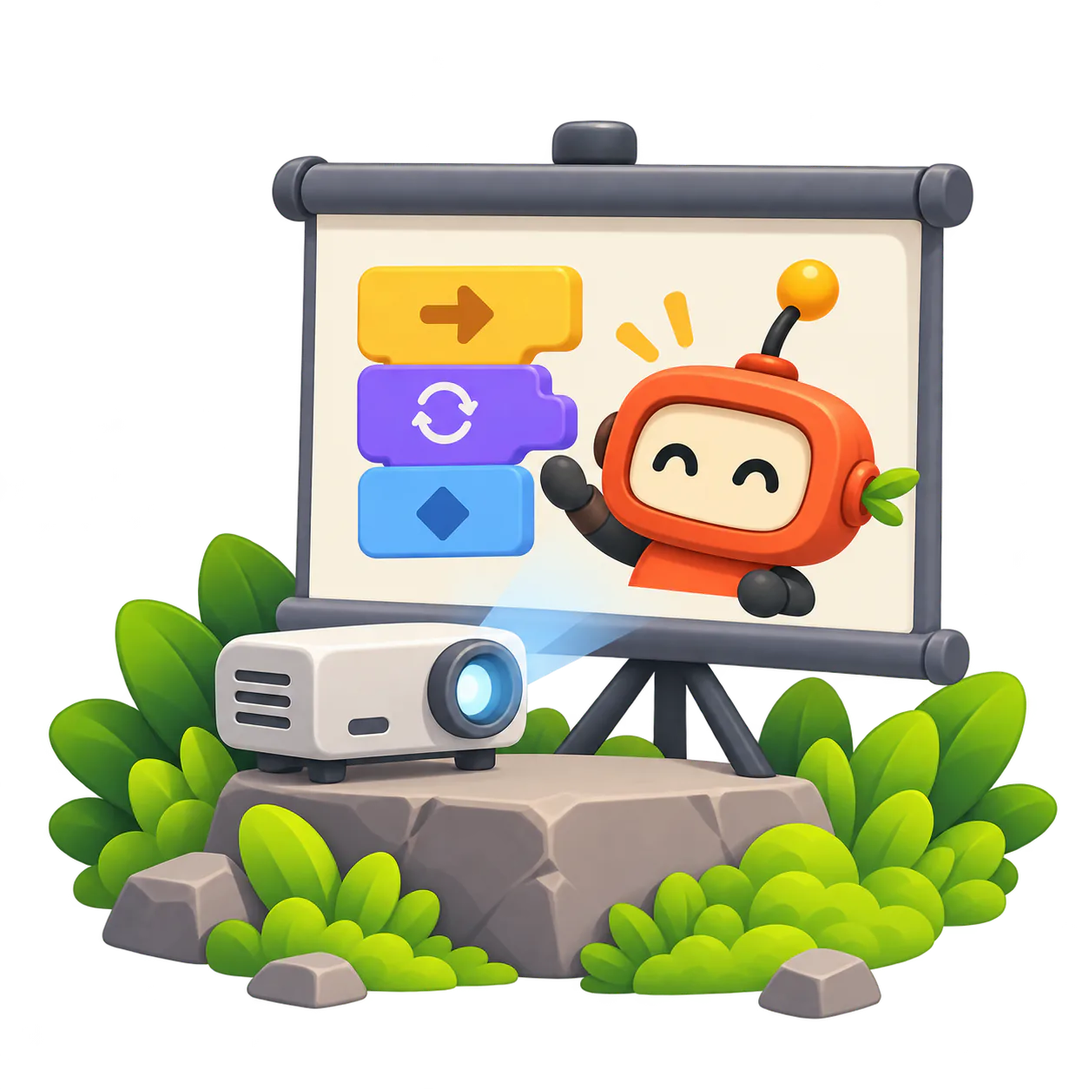
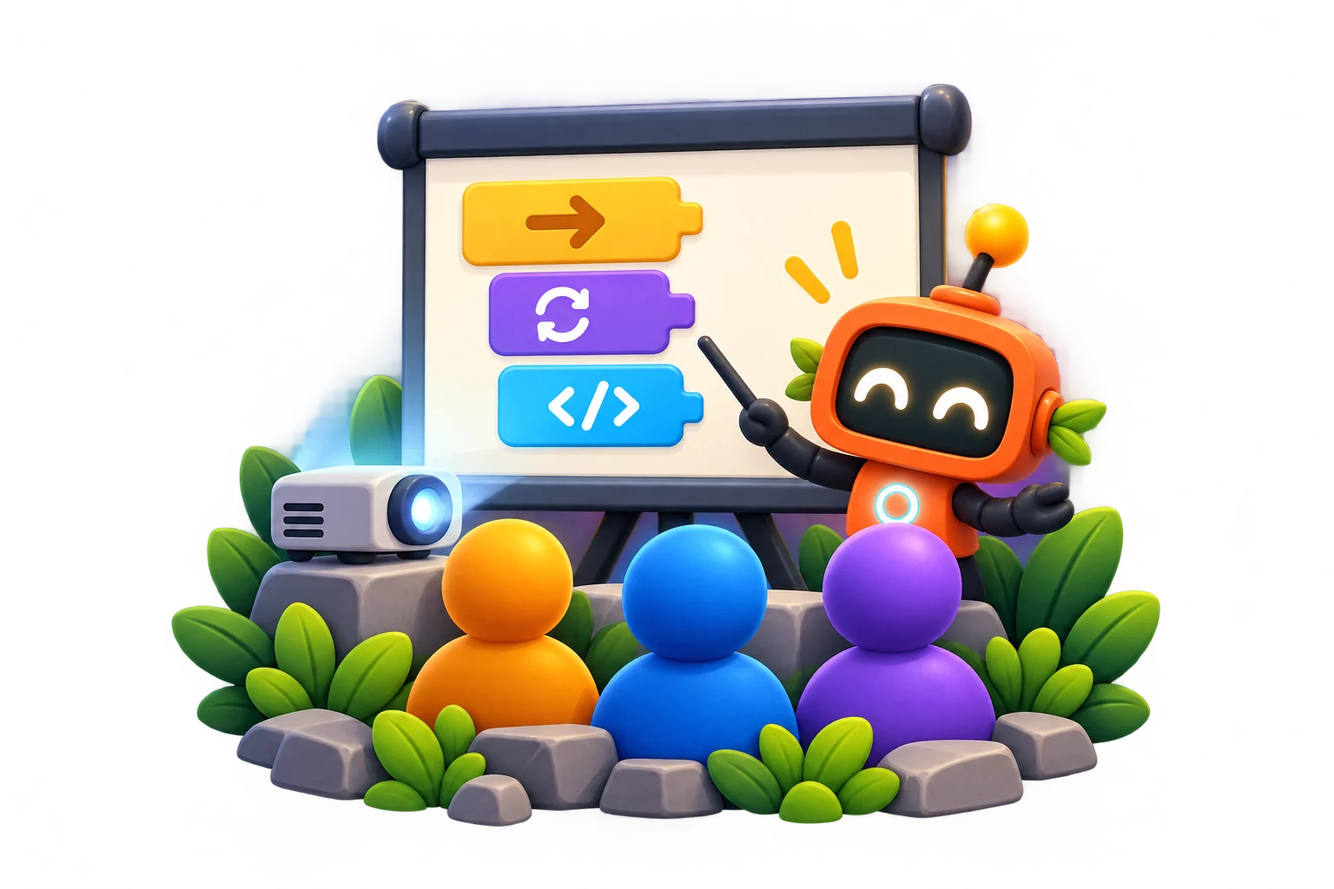
Refine Tech Garden home screen

diff --git a/apps/web/src/styles.css b/apps/web/src/styles.css
@@ -318,8 +318,10 @@ h1 { margin: 8px 0 7px; color: #18372f; font-size: clamp(34px, 4vw, 52px); line-
   min-height: 100svh;
   overflow: hidden;
   padding: 0 clamp(20px, 4vw, 72px) clamp(36px, 5vh, 72px);
-  background-image: linear-gradient(90deg, rgba(223,248,250,.28) 0%, transparent 38%), linear-gradient(180deg, rgba(222, 249, 255, .08), rgba(255, 247, 211, .22)), var(--adventure-background);
-  background-position: center 46%;
+  background-color: #e7f1df;
+  background-image: linear-gradient(90deg, rgba(235,252,247,.16) 0%, transparent 42%), var(--adventure-background);
+  background-position: center top;
+  background-repeat: no-repeat;
   background-size: cover;
   isolation: isolate;
 }
@@ -348,141 +350,104 @@ h1 { margin: 8px 0 7px; color: #18372f; font-size: clamp(34px, 4vw, 52px); line-
   position: relative;
   z-index: 2;
   width: min(100%, 1210px);
-  height: clamp(238px, 30dvh, 330px);
+  height: clamp(280px, 34dvh, 350px);
   margin: 0 auto;
 }
-.adventure-hero__copy { position: absolute; z-index: 3; left: 4%; top: 31%; max-width: 470px; padding: 18px 28px 22px 0; background: radial-gradient(ellipse at 35% 50%, rgba(239,254,247,.68), transparent 68%); }
-.adventure-hero__copy h1 { margin: 0; color: #062b23; font-size: clamp(58px, 5.5vw, 86px); line-height: .88; letter-spacing: -5px; text-shadow: 0 3px rgba(255,255,255,.3); }
-.adventure-hero__copy p { margin: 16px 0 0; color: #315850; font-size: clamp(24px, 2.15vw, 34px); font-weight: 800; letter-spacing: -1.5px; line-height: 1.1; text-shadow: 0 2px rgba(255,255,255,.55); }
-.adventure-hero__scene { position: absolute; inset: 0 0 0 43%; }
-.pip-group { position: absolute; z-index: 3; left: 14%; bottom: 0; width: min(50%, 440px); height: 100%; }
-.pip-hero { position: absolute; z-index: 2; right: 0; bottom: -16px; width: min(88%, 390px); height: auto; filter: drop-shadow(0 14px 13px rgba(44,65,47,.18)); animation: pip-arrive .75s cubic-bezier(.2,.85,.3,1.12) both, pip-float 4.5s 1s ease-in-out infinite; }
-.pip-speech { position: absolute; z-index: 4; left: calc(-45% - 14px); top: -1%; width: 225px; padding: 14px 18px 15px; color: #153b36; background: rgba(255,255,255,.94); border: 1px solid rgba(255,255,255,.98); border-radius: 21px; box-shadow: 0 10px 28px rgba(40,76,70,.12); font-size: 15px; line-height: 1.32; }
-.pip-speech strong,.pip-speech span { display: block; }
-.pip-speech strong { font-weight: 800; }
-.pip-speech span { margin-top: 2px; font-weight: 600; }
-.pip-speech::after { content: ""; position: absolute; right: 24px; bottom: -14px; width: 25px; height: 25px; background: inherit; clip-path: polygon(0 0,100% 0,100% 100%); transform: skewX(10deg); filter: drop-shadow(3px 4px 2px rgba(40,76,70,.04)); }
-.code-stack { position: absolute; z-index: 5; right: -1%; top: 9%; width: 222px; transform: perspective(600px) rotateY(-7deg) rotateZ(-6deg); transform-origin: center; }
-.code-block { position: relative; min-height: 50px; padding: 0 18px 5px 22px; display: flex; align-items: center; gap: 11px; border: 2px solid rgba(72,62,82,.15); border-radius: 12px; box-shadow: inset 0 -7px rgba(75,45,35,.1), inset 0 2px rgba(255,255,255,.25), 0 7px 0 rgba(62,51,45,.12), 0 12px 16px rgba(41,59,46,.13); font-size: 20px; opacity: 0; animation: block-arrive .48s cubic-bezier(.2,.9,.2,1.2) forwards; }
-.code-block::before { content: ""; position: absolute; left: 28px; top: -7px; width: 35px; height: 8px; background: inherit; border-radius: 8px 8px 0 0; }
-.code-block + .code-block { margin-top: 7px; }
-.code-block b { white-space: nowrap; }
-.code-block--move { z-index: 4; margin-left: 4px; color: #85520f; background: #ffc64c; animation-delay: .25s; }
-.code-block--repeat { z-index: 3; margin-left: 40px; color: #5c2b9a; background: #ae6bec; animation-delay: .36s; }
-.code-block--condition { z-index: 2; margin-left: 22px; color: #1b5ca1; background: #65b7f4; animation-delay: .47s; }
-.code-block--run { z-index: 1; margin-left: 46px; color: #176138; background: #78ce84; animation-delay: .58s; }
-.adventure-grid { position: relative; z-index: 4; width: min(100%, 1450px); margin: clamp(8px, 1.4dvh, 15px) auto 0; display: grid; grid-template-columns: repeat(4, minmax(0, 1fr)); align-items: stretch; gap: clamp(14px, 1.3vw, 22px); }
+.adventure-hero__copy { position: absolute; z-index: 3; left: 4%; top: 10%; width: min(590px, 50%); padding: 22px 70px 22px 0; background: radial-gradient(ellipse at 28% 50%, rgba(249,248,224,.72) 0%, rgba(244,249,226,.48) 48%, rgba(239,249,229,0) 76%); }
+.adventure-hero__copy h1 { margin: 0; color: #062b23; font-size: clamp(46px, 3.5vw, 62px); line-height: .98; letter-spacing: -3px; text-wrap: balance; text-shadow: 0 1px rgba(255,255,255,.65); }
+.adventure-hero__copy p { max-width: 520px; margin: 16px 0 0; color: #234a40; font-size: clamp(18px, 1.45vw, 24px); font-weight: 700; letter-spacing: -.7px; line-height: 1.25; text-shadow: 0 1px rgba(255,255,255,.75); }
+.tech-garden-pip { position: absolute; z-index: 2; right: 19%; bottom: clamp(-72px, -6dvh, -50px); width: clamp(255px, 20vw, 330px); aspect-ratio: 1.5; pointer-events: none; }
+.tech-garden-pip img { display: block; width: 100%; height: auto; filter: drop-shadow(0 10px 10px rgba(18,39,29,.18)); }
+.adventure-grid { position: relative; z-index: 4; width: min(100%, 1240px); max-width: 100%; margin: clamp(8px, 1.4dvh, 15px) auto 0; display: grid; grid-template-columns: repeat(4, minmax(0, 1fr)); align-items: stretch; gap: clamp(12px, 1vw, 16px); }
 .adventure-card {
-  --card-border: rgba(255,255,255,.72);
+  --card-bg: #c8e3d3;
+  --card-border: #9bc7b0;
+  --card-accent: #267a59;
+  --card-text: #173c32;
   position: relative;
   min-width: 0;
-  min-height: clamp(330px, 39dvh, 390px);
-  padding: clamp(15px, 1.8dvh, 20px) 24px clamp(18px, 2dvh, 24px);
+  min-height: clamp(290px, 34dvh, 340px);
+  padding: clamp(14px, 1.5dvh, 17px) 20px clamp(16px, 1.7dvh, 20px);
   overflow: hidden;
   display: grid;
-  grid-template-rows: auto minmax(132px, 1fr) auto auto;
+  grid-template-rows: auto minmax(112px, 1fr) auto auto;
   align-items: start;
   row-gap: 7px;
   text-align: left;
-  color: #092d27;
-  border: 5px solid var(--card-border);
-  border-radius: 31px;
-  box-shadow: 0 16px 28px rgba(75,83,45,.16), inset 0 0 32px rgba(255,255,255,.2);
+  color: var(--card-text);
+  background: var(--card-bg);
+  border: 2px solid var(--card-border);
+  border-radius: 27px;
+  box-shadow: 0 12px 26px rgba(30,51,40,.16), inset 0 1px rgba(255,255,255,.24);
   transition: transform .2s ease, box-shadow .2s ease;
 }
-.adventure-card--practice { background: linear-gradient(145deg, #c6f7d5 0%, #9deab5 100%); }
-.adventure-card--challenges { background: linear-gradient(145deg, #ffeaa1 0%, #ffd267 100%); }
-.adventure-card--teacher { background: linear-gradient(145deg, #d9bdff 0%, #bd8ff3 100%); }
-.adventure-card--student { background: linear-gradient(145deg, #c5edff 0%, #83d0f3 100%); }
-.adventure-card:hover { transform: translateY(-5px); border-color: rgba(255,255,255,.95); box-shadow: 0 22px 36px rgba(64,78,45,.22), inset 0 0 32px rgba(255,255,255,.28); }
+.adventure-card--practice { --card-bg: #c8e3d3; --card-border: #9bc7b0; --card-accent: #267a59; --card-text: #173c32; }
+.adventure-card--challenges { --card-bg: #f0ddae; --card-border: #ddbe76; --card-accent: #a66a17; --card-text: #493716; }
+.adventure-card--teacher { --card-bg: #ddd2e9; --card-border: #bda9d5; --card-accent: #7854a4; --card-text: #352744; }
+.adventure-card--student { --card-bg: #c9dfe9; --card-border: #9fc5d8; --card-accent: #276e99; --card-text: #173d53; }
+.adventure-card:hover { transform: translateY(-5px); border-color: var(--card-accent); box-shadow: 0 18px 32px rgba(30,51,40,.2), inset 0 1px rgba(255,255,255,.28); }
 .adventure-card:active { transform: translateY(2px) scale(.995); }
 .adventure-card:focus-visible { outline: 5px solid #173d70; outline-offset: 4px; }
-.adventure-card__category { width: max-content; max-width: 100%; min-height: 38px; padding: 0 17px; display: inline-flex; align-items: center; gap: 9px; color: #14603e; background: rgba(255,255,255,.58); border-radius: 999px; font-size: 12px; font-weight: 800; letter-spacing: .2px; }
-.adventure-card--challenges .adventure-card__category { color: #875000; }
-.adventure-card--teacher .adventure-card__category { color: #57269a; }
-.adventure-card--student .adventure-card__category { color: #0968a9; }
+.adventure-card__category { width: max-content; max-width: 100%; min-height: 34px; padding: 0 14px; display: inline-flex; align-items: center; gap: 8px; color: var(--card-accent); background: rgba(255,255,255,.46); border: 1px solid rgba(255,255,255,.34); border-radius: 999px; font-size: 11px; font-weight: 800; letter-spacing: .2px; }
 .adventure-card__category > span { letter-spacing: -4px; font-size: 10px; }
 .adventure-card__illustration { min-height: 0; display: grid; place-items: center; overflow: visible; }
-.adventure-card__illustration img { --art-scale: 1; width: min(80%, 245px); max-height: clamp(162px, 21dvh, 205px); object-fit: contain; transform: scale(var(--art-scale)); filter: drop-shadow(0 12px 9px rgba(41,69,42,.13)); transition: transform .22s ease; }
+.adventure-card__illustration img { --art-scale: 1; width: min(78%, 210px); max-height: clamp(138px, 17dvh, 172px); object-fit: contain; transform: scale(var(--art-scale)); filter: drop-shadow(0 10px 8px rgba(41,69,42,.13)); transition: transform .22s ease; }
 .adventure-card--practice .adventure-card__illustration img { --art-scale: 1.08; }
 .adventure-card--challenges .adventure-card__illustration img { --art-scale: 1.02; }
 .adventure-card--teacher .adventure-card__illustration img { --art-scale: 1.04; }
 .adventure-card--student .adventure-card__illustration img { --art-scale: 1.07; }
 .adventure-card:hover .adventure-card__illustration img { transform: scale(calc(var(--art-scale) * 1.04)); }
-.adventure-card__title { color: #071f1b; font-size: clamp(21px, 1.55vw, 27px); line-height: 1.1; letter-spacing: -1px; }
-.adventure-card__description { color: #365f57; font-size: clamp(14px, 1vw, 17px); line-height: 1.35; }
-.adventure-card--teacher .adventure-card__description { color: #544a78; }
-.adventure-card--student .adventure-card__description { color: #315b71; }
-@keyframes pip-arrive { from { opacity: 0; transform: translateY(30px) scale(.92); } to { opacity: 1; transform: translateY(0) scale(1); } }
-@keyframes pip-float { 0%, 100% { translate: 0 0; } 50% { translate: 0 -7px; } }
-@keyframes block-arrive { from { opacity: 0; transform: translate(20px,-8px) scale(.9); } to { opacity: 1; transform: none; } }
+.adventure-card__title { color: var(--card-text); font-size: clamp(20px, 1.4vw, 24px); line-height: 1.1; letter-spacing: -.8px; }
+.adventure-card__description { color: var(--card-text); font-size: clamp(13px, .92vw, 15px); line-height: 1.35; opacity: .84; }
 @media (max-width: 1100px) {
-  .adventure-home { padding-inline: 28px; background-position: 52% center; }
-  .adventure-hero { height: 300px; }
-  .adventure-hero__copy { left: 1%; }
-  .adventure-hero__scene { left: 40%; }
-  .pip-group { left: 8%; width: 57%; }
-  .pip-hero { right: 0; left: auto; width: 88%; }
-  .pip-speech { left: -24%; }
-  .code-stack { right: -1%; width: 190px; }
-  .code-block { min-height: 45px; padding-inline: 13px; font-size: 17px; }
+  .adventure-home { padding-inline: 28px; background-position: 54% top; background-size: auto max(100svh, 760px); }
+  .adventure-hero { height: 290px; }
+  .adventure-hero__copy { left: 1%; width: min(560px, 57%); }
+  .tech-garden-pip { right: 8%; bottom: -50px; width: clamp(235px, 29vw, 295px); }
   .adventure-grid { grid-template-columns: repeat(2, minmax(0, 1fr)); max-width: 880px; margin-top: 14px; }
-  .adventure-card { min-height: 370px; grid-template-rows: auto minmax(155px,1fr) auto auto; }
-  .adventure-card__illustration img { width: min(58%, 220px); }
+  .adventure-card { min-height: 340px; grid-template-rows: auto minmax(138px,1fr) auto auto; }
+  .adventure-card__illustration img { width: min(56%, 195px); }
 }
 @media (max-width: 800px) {
-  .adventure-home { padding-inline: 20px; background-position: 50% top; }
+  .adventure-home { padding-inline: 20px; background-position: 58% top; }
   .adventure-header { height: 76px; }
   .adventure-header .brand span:last-child { font-size: 21px; }
   .adventure-header .brand-mark { width: 42px; height: 42px; font-size: 23px; }
   .adventure-header__actions { gap: 8px; }
   .adventure-header__actions .language-select { min-width: 124px; min-height: 46px; padding-left: 14px; font-size: 13px; }
   .adventure-hero { height: 320px; }
-  .adventure-hero__copy { left: 1%; top: 18%; }
-  .adventure-hero__copy h1 { font-size: 58px; letter-spacing: -4px; }
-  .adventure-hero__copy p { max-width: 300px; font-size: 24px; }
-  .adventure-hero__scene { left: 30%; }
-  .pip-group { left: 17%; width: 58%; }
-  .pip-speech { left: -20%; top: 3%; width: 195px; padding: 12px 15px; font-size: 13px; }
-  .pip-hero { right: 0; left: auto; width: 90%; }
-  .code-stack { right: -5%; top: 22%; width: 155px; }
-  .code-block { min-height: 38px; padding: 0 10px 4px 14px; gap: 7px; border-radius: 9px; font-size: 13px; }
-  .code-block + .code-block { margin-top: 5px; }
+  .adventure-hero__copy { left: 1%; top: 12%; width: min(500px, 66%); padding: 20px 48px 22px 0; }
+  .adventure-hero__copy h1 { font-size: 52px; letter-spacing: -3px; }
+  .adventure-hero__copy p { max-width: 410px; font-size: 20px; }
+  .tech-garden-pip { right: 1%; bottom: -46px; width: clamp(215px, 35vw, 260px); }
   .adventure-grid { gap: 14px; }
-  .adventure-card { min-height: 370px; padding: 17px 18px 20px; grid-template-rows: auto minmax(150px,1fr) auto auto; border-width: 4px; border-radius: 25px; }
-  .adventure-card__illustration img { width: min(76%, 205px); }
-  .adventure-card__title { font-size: 23px; }
+  .adventure-card { min-height: 340px; padding: 15px 18px 18px; grid-template-rows: auto minmax(138px,1fr) auto auto; border-width: 2px; border-radius: 25px; }
+  .adventure-card__illustration img { width: min(70%, 190px); }
+  .adventure-card__title { font-size: 22px; }
   .adventure-card__description { font-size: 14px; }
 }
 @media (max-width: 600px) {
-  .adventure-home { padding: 0 16px 34px; overflow: clip; background-position: 48% top; }
+  .adventure-home { padding: 0 16px 34px; overflow: clip; background-position: 62% top; background-size: auto 760px; }
   .adventure-header { height: 72px; }
   .adventure-header .brand { position: absolute; left: 0; width: 40px; flex: none; overflow: visible; }
   .adventure-header .brand span:last-child { display: none; }
   .adventure-header .brand-mark { width: 40px; height: 40px; flex: 0 0 40px; font-size: 22px; }
   .adventure-header__actions { position: absolute; left: auto; right: 0; }
-  .adventure-header__actions .language-select { min-width: 100px; width: 100px; min-height: 44px; padding-left: 11px; font-size: 12px; }
-  .adventure-hero { height: 400px; }
-  .adventure-hero__copy { left: 3%; top: 7%; }
-  .adventure-hero__copy h1 { font-size: 54px; letter-spacing: -4px; }
-  .adventure-hero__copy p { max-width: 320px; margin-top: 10px; font-size: 25px; }
-  .adventure-hero__scene { inset: 0; }
-  .pip-group { left: 0; bottom: 0; width: 280px; height: 300px; }
-  .pip-speech { left: 235px; right: auto; top: 4px; width: 140px; padding: 10px 11px; border-radius: 17px; font-size: 11px; }
-  .pip-speech::after { left: 19px; right: auto; clip-path: polygon(0 0,100% 0,0 100%); transform: skewX(-10deg); }
-  .pip-hero { left: 0; right: auto; bottom: 0; width: 100%; }
-  .code-stack { left: 232px; right: auto; top: 55%; width: 124px; }
-  .code-block { min-height: 34px; padding-inline: 9px; gap: 5px; font-size: 11px; }
-  .code-block::before { left: 18px; width: 26px; }
+  .adventure-header__actions .language-select { min-width: 112px; width: 112px; min-height: 44px; padding-left: 11px; font-size: 12px; }
+  .adventure-hero { height: 330px; }
+  .adventure-hero__copy { left: 2%; top: 5%; width: 96%; max-width: 350px; padding: 18px 34px 20px 0; background: radial-gradient(ellipse at 30% 50%, rgba(249,248,224,.78), rgba(244,249,226,.5) 60%, transparent 82%); }
+  .adventure-hero__copy h1 { font-size: 45px; letter-spacing: -2.5px; }
+  .adventure-hero__copy p { max-width: 340px; margin-top: 12px; font-size: 19px; }
+  .tech-garden-pip { right: 0; bottom: 8px; width: 220px; }
   .adventure-grid { width: 358px; max-width: 100%; grid-template-columns: 1fr; gap: 14px; margin: 0; }
-  .adventure-card { min-height: 365px; padding: 17px 20px 20px; grid-template-rows: auto minmax(165px,1fr) auto auto; }
-  .adventure-card__illustration img { width: min(62%, 220px); }
-  .adventure-card__title { font-size: 25px; }
+  .adventure-card { min-height: 340px; padding: 15px 20px 18px; grid-template-rows: auto minmax(145px,1fr) auto auto; }
+  .adventure-card__illustration img { width: min(58%, 195px); }
+  .adventure-card__title { font-size: 23px; }
   .adventure-card__description { font-size: 15px; }
 }
 @media (max-width: 420px) {
-  .adventure-hero__copy h1 { font-size: 50px; }
-  .adventure-hero__copy p { font-size: 22px; }
+  .adventure-hero__copy h1 { font-size: 41px; }
+  .adventure-hero__copy p { font-size: 18px; }
 }
 
 /* Shared student experience surfaces */

diff --git a/apps/web/src/i18n.tsx b/apps/web/src/i18n.tsx
@@ -7,8 +7,7 @@ const en: Record<string, string> = {
   "live.teacherSetupTip":"Everything you need to guide the class, in one place.","live.teacherControls":"Teacher controls","live.connectedStudents":"Connected students","live.waitingForStudents":"Waiting for students to join…",
   "status.completed":"Completed","status.available":"Ready to play","status.locked":"Locked","campaign.open":"Open campaign","live.joinTip":"Your class adventure starts here.",
   "catalog.loading":"Loading curriculum…","catalog.unavailable":"Curriculum is temporarily unavailable","catalog.retry":"Try again",
-  "home.speechLead":"Ready to code?","home.speechBody":"I’ll be right here with you.",
-  "home.greeting":"Hello!","home.prompt":"What will you create today?","home.speech":"Ready to code? I’ll be right here with you.","home.solo":"ON YOUR OWN","home.class":"WITH YOUR CLASS","home.practiceBody":"Build your skills one step at a time.","home.challengesBody":"Solve puzzles, optimize your programs, and earn stars.","home.createBody":"Project a challenge, receive programs, and code with the whole class.","home.joinBody":"Enter the class code and start creating.","home.block.move":"move(3)","home.block.repeat":"repeat(4)","home.block.condition":"if at goal","home.block.run":"run!","home.languageLabel":"Choose language","home.accountLabel":"Account","home.experiencesLabel":"Choose an experience",
+  "home.greeting":"What will you program today?","home.prompt":"Explore challenges, build solutions, and put your code to the test.","home.solo":"ON YOUR OWN","home.class":"WITH YOUR CLASS","home.practiceBody":"Build your skills one step at a time.","home.challengesBody":"Solve puzzles, optimize your programs, and earn stars.","home.createBody":"Project a challenge, receive programs, and code with the whole class.","home.joinBody":"Enter the class code and start creating.","home.languageLabel":"Choose language","home.accountLabel":"Account","home.experiencesLabel":"Choose an experience",
   "brand.mode":"Practice Mode","language.english":"English","language.spanish":"Español","common.back":"Back to challenges","common.run":"Run program","common.running":"Running…","common.stop":"Stop","common.reset":"Reset sim","common.restore":"Restore program","common.undo":"Undo","common.redo":"Redo","common.remove":"Remove instruction","common.speed":"Speed","common.blocks":"Blocks","common.steps":"execution steps","common.next":"Next Challenge","common.retry":"Try again","common.continue":"Continue",
   "practice.title":"Choose your next challenge","practice.subtitle":"Build programs, test your ideas, and help Pip collect every battery.","practice.progress":"{done} of {total} complete","practice.locked":"Complete the previous challenge to unlock","practice.challenge":"Challenge","practice.concept":"Concept","practice.play":"Start challenge","practice.resume":"Continue challenge","practice.completed":"Completed","practice.newTool":"New tool","practice.workspace":"Practice challenge","practice.unpredictableLayout":"The garden changes each run. Build one program that handles every path.",
   "campaign.mode":"Campaigns","campaign.homeTitle":"Challenges","campaign.homeBody":"Take on longer puzzles, optimize your programs, and earn stars.","campaign.library.title":"Choose a campaign","campaign.library.body":"Each campaign is a new journey with connected programming challenges.","campaign.label":"Campaign","campaign.all":"All campaigns","campaign.locked":"Complete the previous challenge to unlock","campaign.summary":"{done} of {total} complete · {stars} / {max} stars","campaign.targets":"Star targets","campaign.workspace":"Campaign challenge","campaign.result.1":"Goal reached","campaign.result.2":"Block target reached","campaign.result.3":"Perfect solution","campaign.foundations.title":"Foundations","campaign.foundations.description":"Sixteen guided activities that introduce Kodergarden's core tools.","campaign.expedition.title":"Garden Expedition","campaign.expedition.description":"Eight demanding stages built around planning, control structures, and efficient solutions.",
@@ -26,8 +25,7 @@ const es: Record<string, string> = {
   "live.teacherSetupTip":"Todo lo que necesitas para guiar a la clase, en un solo lugar.","live.teacherControls":"Controles del docente","live.connectedStudents":"Estudiantes conectados","live.waitingForStudents":"Esperando a que se unan los estudiantes…",
   "status.completed":"Completado","status.available":"Listo para jugar","status.locked":"Bloqueado","campaign.open":"Abrir campaña","live.joinTip":"Tu aventura con la clase comienza aquí.",
   "catalog.loading":"Cargando el currículo…","catalog.unavailable":"El currículo no está disponible temporalmente","catalog.retry":"Intentar de nuevo",
-  "home.speechLead":"¡Listo para programar?","home.speechBody":"Yo te acompaño.",
-  "home.greeting":"¡Hola!","home.prompt":"¿Qué vas a crear hoy?","home.speech":"¡Listo para programar? Yo te acompaño.","home.solo":"POR TU CUENTA","home.class":"CON TU CLASE","home.practiceBody":"Desarrolla tus habilidades paso a paso.","home.challengesBody":"Resuelve retos, optimiza tus programas y gana estrellas.","home.createBody":"Proyecta un desafío, recibe programas y programa con toda la clase.","home.joinBody":"Ingresa el código de la clase y comienza a crear.","home.block.move":"mover(3)","home.block.repeat":"repetir(4)","home.block.condition":"si hay meta","home.block.run":"¡ejecutar!","home.languageLabel":"Elegir idioma","home.accountLabel":"Cuenta","home.experiencesLabel":"Elige una experiencia",
+  "home.greeting":"¿Qué vas a programar hoy?","home.prompt":"Explora desafíos, construye soluciones y pon tu código a prueba.","home.solo":"POR TU CUENTA","home.class":"CON TU CLASE","home.practiceBody":"Desarrolla tus habilidades paso a paso.","home.challengesBody":"Resuelve retos, optimiza tus programas y gana estrellas.","home.createBody":"Proyecta un desafío, recibe programas y programa con toda la clase.","home.joinBody":"Ingresa el código de la clase y comienza a crear.","home.languageLabel":"Elegir idioma","home.accountLabel":"Cuenta","home.experiencesLabel":"Elige una experiencia",
   "brand.mode":"Modo Práctica","language.english":"English","language.spanish":"Español","common.back":"Volver a desafíos","common.run":"Ejecutar programa","common.running":"Ejecutando…","common.stop":"Detener","common.reset":"Reiniciar simulación","common.restore":"Restaurar programa","common.undo":"Deshacer","common.redo":"Rehacer","common.remove":"Eliminar instrucción","common.speed":"Velocidad","common.blocks":"Bloques","common.steps":"pasos ejecutados","common.next":"Siguiente desafío","common.retry":"Intentar de nuevo","common.continue":"Continuar",
   "practice.title":"Elige tu próximo desafío","practice.subtitle":"Crea programas, prueba tus ideas y ayuda a Pip a recoger cada batería.","practice.progress":"{done} de {total} completados","practice.locked":"Completa el desafío anterior para desbloquear","practice.challenge":"Desafío","practice.concept":"Concepto","practice.play":"Iniciar desafío","practice.resume":"Continuar desafío","practice.completed":"Completado","practice.newTool":"Nueva herramienta","practice.workspace":"Desafío de práctica","practice.unpredictableLayout":"El jardín cambia en cada ejecución. Crea un programa que pueda resolver cualquier camino.",
   "campaign.mode":"Campañas","campaign.homeTitle":"Desafíos","campaign.homeBody":"Resuelve retos más largos, optimiza tus programas y gana estrellas.","campaign.library.title":"Elige una campaña","campaign.library.body":"Cada campaña es una nueva aventura con desafíos de programación conectados.","campaign.label":"Campaña","campaign.all":"Todas las campañas","campaign.locked":"Completa el desafío anterior para desbloquear","campaign.summary":"{done} de {total} completados · {stars} / {max} estrellas","campaign.targets":"Metas de estrellas","campaign.workspace":"Desafío de campaña","campaign.result.1":"Meta alcanzada","campaign.result.2":"Meta de bloques alcanzada","campaign.result.3":"Solución perfecta","campaign.foundations.title":"Fundamentos","campaign.foundations.description":"Dieciséis actividades guiadas para aprender las herramientas principales de Kodergarden.","campaign.expedition.title":"Expedición del Jardín","campaign.expedition.description":"Ocho etapas exigentes de planeación, estructuras de control y soluciones eficientes.",

diff --git a/apps/web/src/RootApp.tsx b/apps/web/src/RootApp.tsx
@@ -56,17 +56,8 @@ export function RootApp() {
           <h1 id="home-title">{t("home.greeting")}</h1>
           <p>{t("home.prompt")}</p>
         </div>
-        <div className="adventure-hero__scene" aria-hidden="true">
-          <div className="pip-group">
-            <div className="pip-speech"><strong>{t("home.speechLead")}</strong><span>{t("home.speechBody")}</span></div>
-            <img className="pip-hero" src={pipHero} alt="" />
-          </div>
-          <div className="code-stack">
-            <span className="code-block code-block--move">➜ <b>{t("home.block.move")}</b></span>
-            <span className="code-block code-block--repeat">⟳ <b>{t("home.block.repeat")}</b></span>
-            <span className="code-block code-block--condition">◆ <b>{t("home.block.condition")}</b></span>
-            <span className="code-block code-block--run">⚑ <b>{t("home.block.run")}</b></span>
-          </div>
+        <div className="tech-garden-pip" aria-hidden="true">
+          <img src={pipHero} alt="" />
         </div>
       </section>
       <section className="adventure-grid" aria-label={t("home.experiencesLabel")}>
